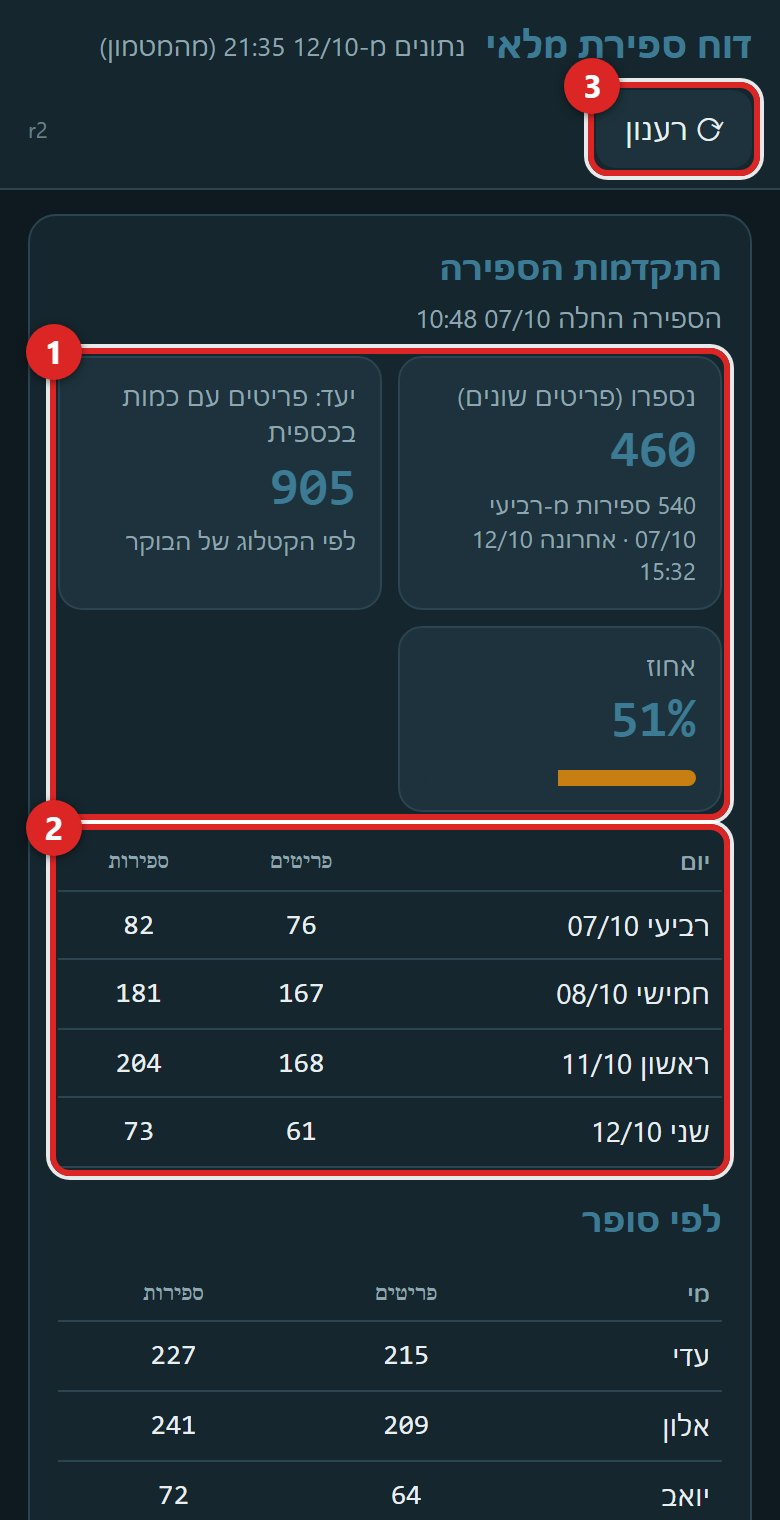
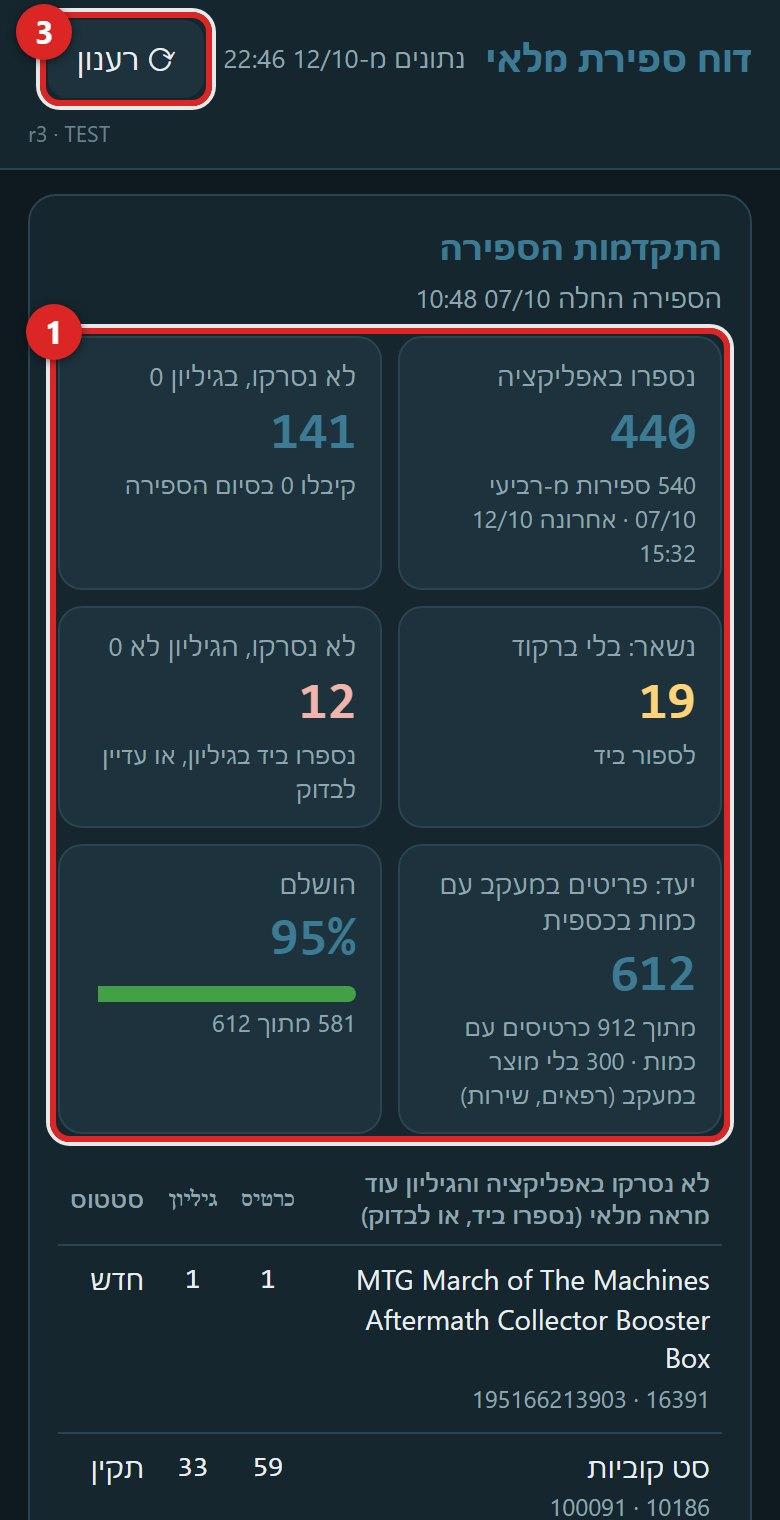
count v2.5 / report r3 (backend v2.4 on TEST @10): the progress target is tracked items with a card quantity
Chris, 12/10 22:00: the 905 'items to count' was every Caspit card with a quantity, ghost and service cards included. The target now counts only items the inventory sheet tracks (status set, not generic) whose card shows a quantity (612 tonight); each is counted in the app, or not scanned but 0 on the sheet (the count-close), or open without a barcode, or open with a barcode (listed by name). Report r3 shows the split and the old card total beside it; the app's bar uses the same target; guide text and the report pictures regenerated.

diff --git a/count-report.html b/count-report.html
@@ -79,10 +79,14 @@
     <h2>התקדמות הספירה</h2>
     <div class="sub" id="progressSub"></div>
     <div class="big">
-      <div class="box"><div class="t">נספרו (פריטים שונים)</div><div class="n" id="pCounted">—</div><div class="s" id="pRows"></div></div>
-      <div class="box"><div class="t">יעד: פריטים עם כמות בכספית</div><div class="n" id="pTarget">—</div><div class="s">לפי הקטלוג של הבוקר</div></div>
-      <div class="box"><div class="t">אחוז</div><div class="n" id="pPct">—</div><div id="barWrap"><div id="bar"></div></div></div>
+      <div class="box"><div class="t">נספרו באפליקציה</div><div class="n" id="pCounted">—</div><div class="s" id="pRows"></div></div>
+      <div class="box"><div class="t">לא נסרקו, בגיליון 0</div><div class="n" id="pZero">—</div><div class="s">קיבלו 0 בסיום הספירה</div></div>
+      <div class="box"><div class="t">נשאר: בלי ברקוד</div><div class="n warn" id="pOpenNoBc">—</div><div class="s">לספור ביד</div></div>
+      <div class="box"><div class="t">לא נסרקו, הגיליון לא 0</div><div class="n" id="pOpenBc">—</div><div class="s">נספרו ביד בגיליון, או עדיין לבדוק</div></div>
+      <div class="box"><div class="t">יעד: פריטים במעקב עם כמות בכספית</div><div class="n" id="pTarget">—</div><div class="s" id="pTargetS">לפי הקטלוג של הבוקר</div></div>
+      <div class="box"><div class="t">הושלם</div><div class="n" id="pPct">—</div><div id="barWrap"><div id="bar"></div></div><div class="s" id="pDone"></div></div>
     </div>
+    <table id="openRows" class="hide"><thead><tr><th>לא נסרקו באפליקציה והגיליון עוד מראה מלאי (נספרו ביד, או לבדוק)</th><th class="num">כרטיס</th><th class="num">גיליון</th><th>סטטוס</th></tr></thead><tbody></tbody></table>
     <table id="days"><thead><tr><th>יום</th><th class="num">פריטים</th><th class="num">ספירות</th></tr></thead><tbody></tbody></table>
     <h2 style="margin-top:14px">לפי סופר</h2>
     <table id="users"><thead><tr><th>מי</th><th class="num">פריטים</th><th class="num">ספירות</th></tr></thead><tbody></tbody></table>
@@ -142,7 +146,7 @@
 </main>
 
 <script>
-const BUILD = 'r2';
+const BUILD = 'r3';
 const LIVE_API = 'https://script.google.com/macros/s/AKfycbzZcnV-OvyDUbwJXpraSAaQrqLbF5FYgtoONr6XCfLIWxg8ifenqzvDAVjALKwzBCr1/exec';   // deployment "V2 live" — count.html uses the same
 const TOKEN = 'freak-count-T9tfjr2xKzlZ6ylhQM96Fg';
 // ?api=test reroutes the page to the TEST deployment (the tests use it); only these two names exist — never a URL from the address bar
@@ -197,7 +201,18 @@ function render() {
   $('pCounted').textContent = num(p.counted);
   $('pRows').textContent = `${num(c.rows)} ספירות מ-${fmtDay(r.countStart)}${c.lastAt ? ` · אחרונה ${dayTime(c.lastAt)}` : ''}`;
   $('pTarget').textContent = num(p.target);
-  const pct = p.target ? Math.min(100, Math.round(100 * p.counted / p.target)) : 0;
+  // r3: the target is tracked items with a card quantity; done = counted in the app + not scanned but 0 on the sheet
+  const done = p.done !== undefined ? p.done : p.counted;
+  $('pZero').textContent = num(p.sheetZero || 0);
+  $('pOpenNoBc').textContent = num(p.openNoBarcode || 0);
+  $('pOpenBc').textContent = num(p.openWithBarcode || 0);
+  $('pOpenBc').classList.toggle('bad', (p.openWithBarcode || 0) > 0);
+  if (p.cardsWithQty !== undefined) $('pTargetS').textContent = `מתוך ${num(p.cardsWithQty)} כרטיסים עם כמות · ${num(p.cardsOnly)} בלי מוצר במעקב (רפאים, שירות)`;
+  $('pDone').textContent = `${num(done)} מתוך ${num(p.target)}`;
+  const orows = p.openRows || [];
+  $('openRows').classList.toggle('hide', !orows.length);
+  $('openRows').querySelector('tbody').innerHTML = orows.map(x => `<tr><td><span class="nm">${esc(x.name || x.code)}</span><span class="meta">${esc(x.code)}${x.barcode ? ' · ' + esc(x.barcode) : ''}${x.location ? ' · ' + esc(x.location) : ''}</span></td><td class="num">${num(x.card)}</td><td class="num">${num(x.level)}</td><td>${esc(x.status || '')}</td></tr>`).join('');
+  const pct = p.target ? Math.min(100, Math.round(100 * done / p.target)) : 0;
   $('pPct').textContent = pct + '%';
   $('bar').style.width = pct + '%';
   $('bar').style.background = pct >= 90 ? 'var(--green-hi)' : pct >= 50 ? 'var(--amber)' : 'var(--red)';

diff --git a/count.html b/count.html
@@ -346,7 +346,7 @@
 
 <script>
 /* ================= CONFIG ================= */
-const BUILD = 'v2.4';
+const BUILD = 'v2.5';
 const LIVE_API = 'https://script.google.com/macros/s/AKfycbzZcnV-OvyDUbwJXpraSAaQrqLbF5FYgtoONr6XCfLIWxg8ifenqzvDAVjALKwzBCr1/exec';   // deployment "V2 live"
 // ?api=test reroutes the page to the TEST deployment (the tests use it); only these two names exist — never a URL from the
 // address bar, so no link can send the page (and what it shows) to a backend of someone else's
@@ -553,7 +553,9 @@ function refreshCatalog(){ toast('מרענן קטלוג…','warn',3000); fetchC
 function updateProgress(){
   const today = todayStr();
   let target=0, done=0;
-  for(const it of items.values()) if((it.caspitQty||0) > 0) target++;
+  // the target is what a person can count: items the inventory sheet tracks (not גנרי) whose card shows a quantity.
+  // Cards nobody tracks (ghosts, service cards) are not on the shelf — v2.5, Chris 12/10: 905 cards was no target.
+  for(const it of items.values()) if(it.status && it.status!=='גנרי' && (it.caspitQty||0) > 0) target++;
   for(const code in latest) if(dayOf(latest[code].at)===today) done++;
   $('progress').textContent = done + ' / ' + target;
   const pct = target ? Math.min(100, done/target*100) : 0;

diff --git a/count-guide.html b/count-guide.html
@@ -73,7 +73,7 @@
     <li><b class="mark">1</b>מכוונים את הברקוד לתוך המסגרת. ברקוד קטן? לא מתקרבים — מגדילים זום.</li>
     <li><b class="mark">2</b>המצלמה מטושטשת? "החלף מצלמה" — בטלפון עם כמה עדשות אחוריות בוחרים את הרגילה (לא הרחבה).</li>
     <li><b class="mark">3</b>אין ברקוד או שהסורק לא קולט: מקלידים את הברקוד או את קוד הפריט ולוחצים "חפש".</li>
-    <li><b class="mark">4</b>🔎 חיפוש לפי שם. <b class="mark">5</b>כמה נספרו היום מתוך הפריטים שיש להם כמות בכספית. <b class="mark">6</b>? — העזרה בתוך האפליקציה.</li>
+    <li><b class="mark">4</b>🔎 חיפוש לפי שם. <b class="mark">5</b>כמה נספרו היום מתוך הפריטים במעקב שיש להם כמות בכספית (כרטיסי רפאים לא נספרים ביעד). <b class="mark">6</b>? — העזרה בתוך האפליקציה.</li>
   </ul>
   <figure><img src="./guide/c02b-scanned.jpg" alt="הפריט נפתח אחרי סריקה"><figcaption>ברקוד במסגרת — הפריט נפתח לבד</figcaption></figure>
 </section>
